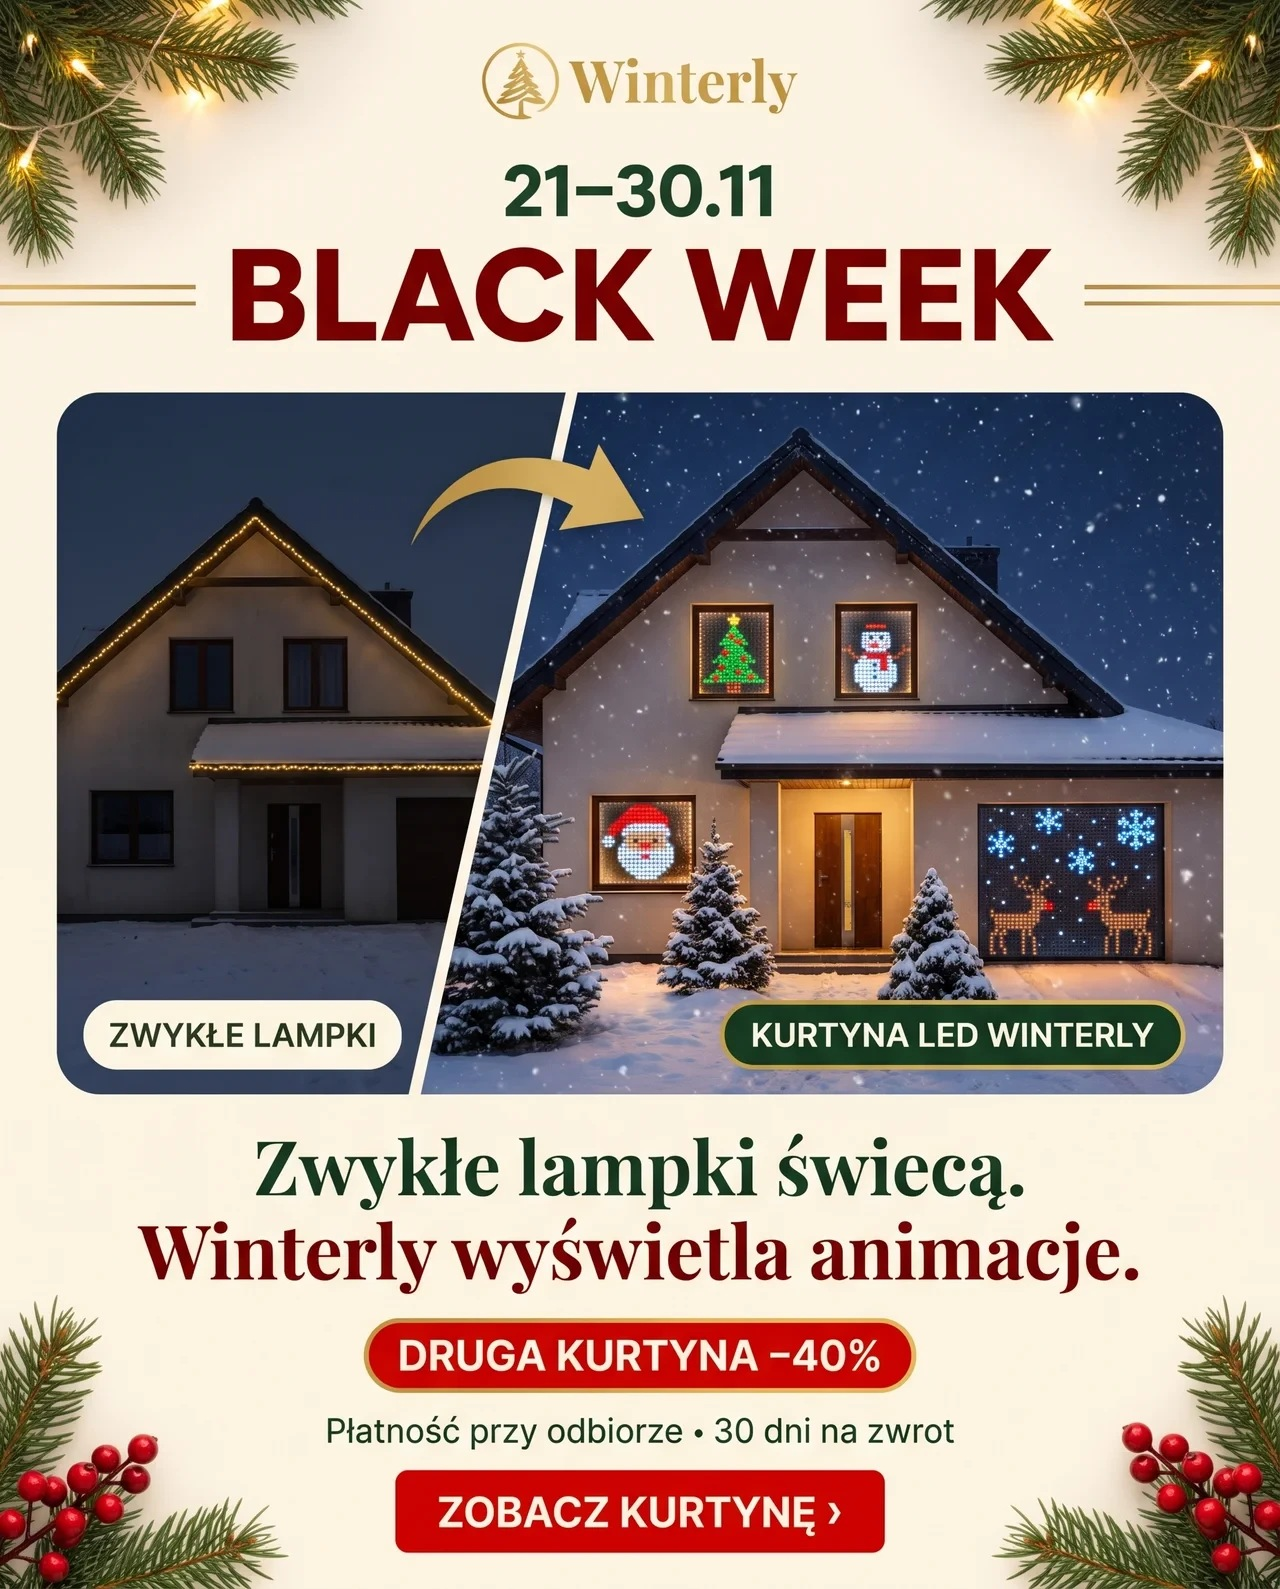
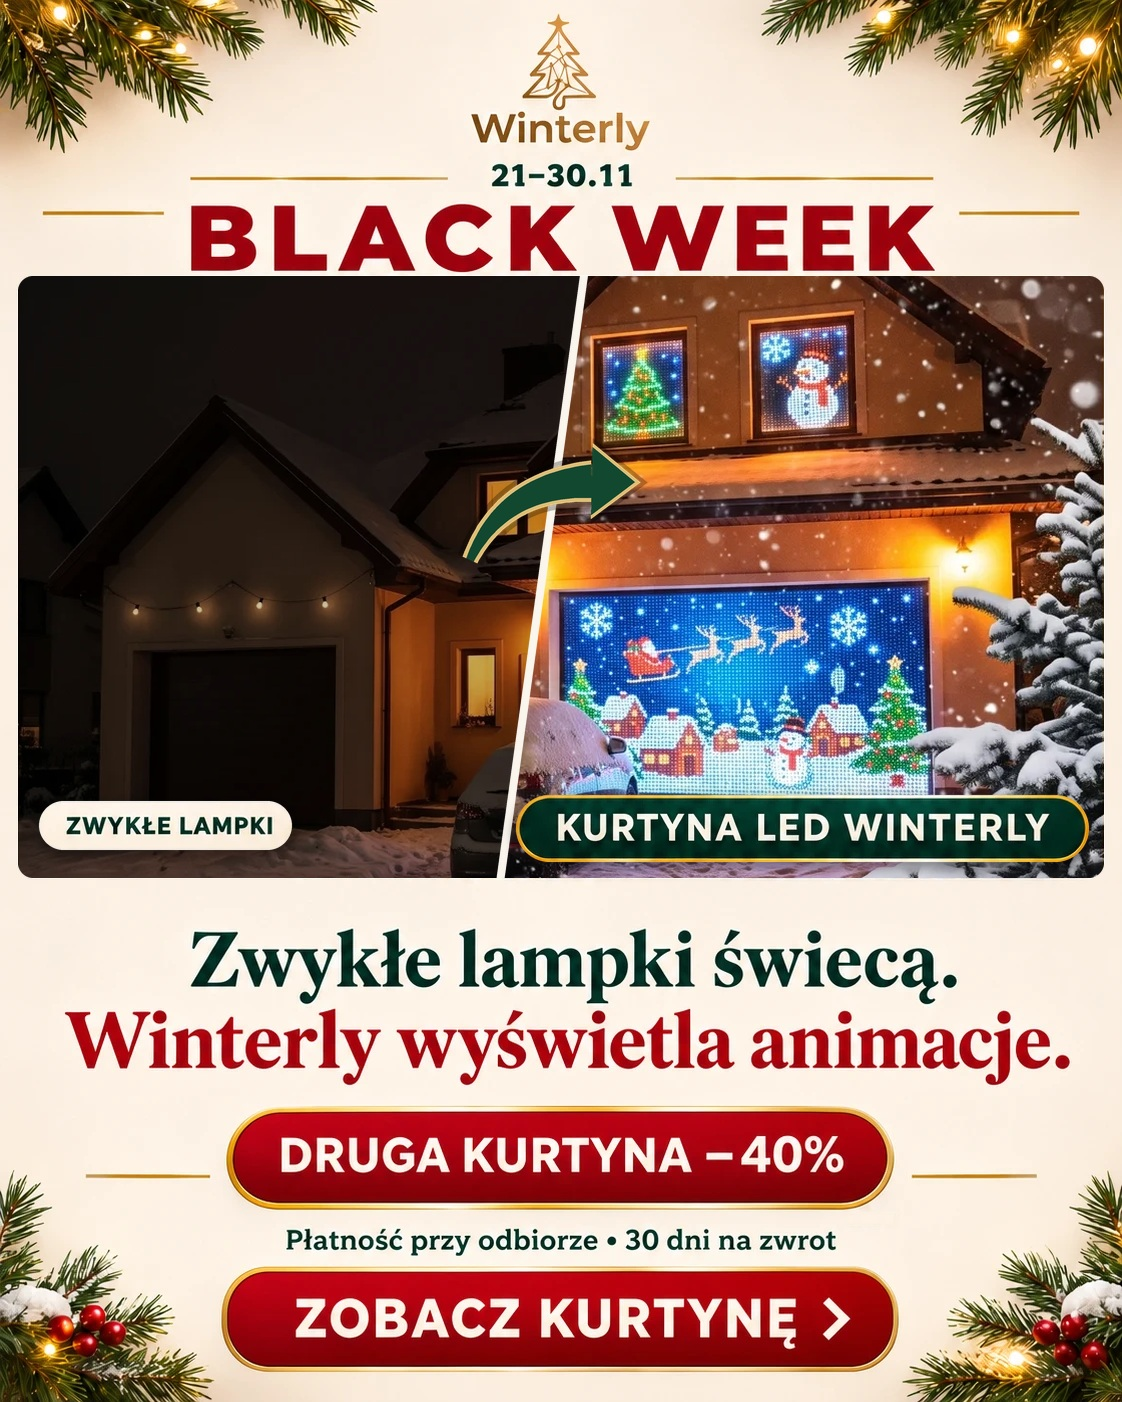
Grafika Black Week z domem w ramce zwycięzcy + skrypt do wklejania zdjęcia
Claude-Session: https://claude.ai/code/session_01DeuvRZ8F7hfMieH2Xjfnm5

diff --git a/handoff/video-tools/winterly/wklej_zdjecie_w_ramke.py b/handoff/video-tools/winterly/wklej_zdjecie_w_ramke.py
@@ -1,0 +1,70 @@
+# Wkleja zdjęcie przed/po (np. z grafiki AI z błędnymi napisami) w ramkę zwycięskiej grafiki Black Week.
+# Użycie: python3 wklej_zdjecie_w_ramke.py ZRODLO.jpg WYNIK.jpg [przesuniecie_plakietki_x] ["x0,y0,x1,y1" strzałki] [split_x_dol] [y_startu_kadru_prawego]
+# Współrzędne kadrów w źródle są ustawione pod grafikę 1280x1589 (lewe zdjęcie x 47-636, prawe x 642-1234).
+import sys, math
+from PIL import Image, ImageDraw, ImageFilter
+TPL='/home/user/lala/handoff/grafiki_black_week/winterly_black_week_balkon_4x5.png'
+SRC=sys.argv[1]; OUT=sys.argv[2]
+tpl=Image.open(TPL).convert('RGB'); src=Image.open(SRC).convert('RGB')
+X0,Y0,X1,Y1=18,276,1104,878; W,H=X1-X0,Y1-Y0; R=15
+TTOP,TBOT=(int(sys.argv[5])+84,int(sys.argv[5])) if len(sys.argv)>5 else (554,470)      # split line x at top / bottom (template coords)
+SS=4
+# --- photo panels
+from PIL import ImageEnhance
+lw=TTOP-X0; lsh=589*H/lw
+left=src.crop((47,345,636,int(345+lsh))).resize((lw,H),Image.LANCZOS)
+left=ImageEnhance.Color(ImageEnhance.Brightness(left).enhance(0.8)).enhance(0.85)
+rsc=(X1-TBOT)/592.0; rh=H/rsc; ry0=int(sys.argv[6]) if len(sys.argv)>6 else 430
+right=src.crop((642,ry0,1234,int(ry0+rh))).resize((X1-TBOT,H),Image.LANCZOS)
+photo=Image.new('RGB',(W,H)); photo.paste(left,(0,0))
+m=Image.new('L',(W*SS,H*SS),0); ImageDraw.Draw(m).polygon([((TTOP-X0)*SS,0),(W*SS,0),(W*SS,H*SS),((TBOT-X0)*SS,H*SS)],fill=255)
+m=m.resize((W,H),Image.LANCZOS)
+rp=Image.new('RGB',(W,H)); rp.paste(right,(TBOT-X0,0)); photo.paste(rp,(0,0),m)
+# white split line
+lm=Image.new('L',(W*SS,H*SS),0); ImageDraw.Draw(lm).line([((TTOP-X0)*SS,-10),((TBOT-X0)*SS,H*SS+10)],fill=255,width=8*SS)
+lm=lm.resize((W,H),Image.LANCZOS); photo.paste((250,246,238),(0,0),lm)
+# paste into template with rounded corners
+rm=Image.new('L',(W*SS,H*SS),0); ImageDraw.Draw(rm).rounded_rectangle([0,0,W*SS-1,H*SS-1],radius=R*SS,fill=255)
+rm=rm.resize((W,H),Image.LANCZOS)
+out=tpl.copy(); out.paste(photo,(X0,Y0),rm)
+# --- copy label pills from template (capsule masks)
+def capsule(box,inset=1):
+    x0,y0,x1,y1=box; w,h=x1-x0,y1-y0
+    mm=Image.new('L',(w*SS,h*SS),0); ImageDraw.Draw(mm).rounded_rectangle([inset*SS,inset*SS,(w-inset)*SS-1,(h-inset)*SS-1],radius=(h/2-inset)*SS,fill=255)
+    return mm.resize((w,h),Image.LANCZOS)
+def shadow(img,box,dx,dy):
+    x0,y0,x1,y1=box; w,h=x1-x0,y1-y0
+    sh=Image.new('L',img.size,0); ImageDraw.Draw(sh).rounded_rectangle([x0+dx,y0+dy+4,x1+dx,y1+dy+4],radius=h/2,fill=110)
+    sh=sh.filter(ImageFilter.GaussianBlur(6)); img.paste((0,0,0),(0,0),sh)
+LB=(38,800,293,851); RB=(432,794,1007,863)
+RDX=int(sys.argv[3]) if len(sys.argv)>3 else 70
+for box,dx in [(LB,0),(RB,RDX)]:
+    shadow(out,box,dx,0)
+    patch=tpl.crop(box); out.paste(patch,(box[0]+dx,box[1]),capsule(box))
+# --- arrow (dark green with gold outline), drawn supersampled
+AX=[int(v) for v in sys.argv[4].split(',')] if len(sys.argv)>4 else [430,560,600,470]
+def arrow_layer(x0,y0,x1,y1):
+    S=SS; L=Image.new('RGBA',(out.width*S,out.height*S),(0,0,0,0)); d=ImageDraw.Draw(L)
+    cx,cy=x0+(x1-x0)*0.25,y1-10
+    pts=[]
+    for i in range(41):
+        t=i/40; bx=(1-t)**2*x0+2*(1-t)*t*cx+t*t*x1; by=(1-t)**2*y0+2*(1-t)*t*cy+t*t*y1; pts.append((bx,by,t))
+    def shape(grow):
+        poly_l=[];poly_r=[]
+        for i,(bx,by,t) in enumerate(pts[:-6]):
+            nx,ny=pts[i+1][0]-bx,pts[i+1][1]-by; n=math.hypot(nx,ny); nx,ny=nx/n,ny/n
+            th=(4+15*t)+grow
+            poly_l.append(((bx-ny*th)*S,(by+nx*th)*S)); poly_r.append(((bx+ny*th)*S,(by-nx*th)*S))
+        bx,by,_=pts[-7]; ex,ey,_=pts[-1]; dx,dy=ex-bx,ey-by; n=math.hypot(dx,dy); dx,dy=dx/n,dy/n
+        hw=34+grow; tip=(ex+dx*(10+grow*1.4),ey+dy*(10+grow*1.4))
+        head=[((bx-dy*hw)*S,(by+dx*hw)*S),(tip[0]*S,tip[1]*S),((bx+dy*hw)*S,(by-dx*hw)*S)]
+        return poly_l+poly_r[::-1], head
+    for grow,col in [(9,(0,0,0,70)),(4,(222,190,120,255)),(0,(18,72,48,255))]:
+        body,head=shape(grow); d.polygon(body,fill=col); d.polygon(head,fill=col)
+    L=L.resize(out.size,Image.LANCZOS)
+    return L
+al=arrow_layer(*AX)
+# soften the shadow layer: blur alpha of first pass approximated by slight blur of whole layer bottom
+out=Image.alpha_composite(out.convert('RGBA'),al).convert('RGB')
+out.save(OUT,quality=94)
+print('OK',OUT,out.size)
